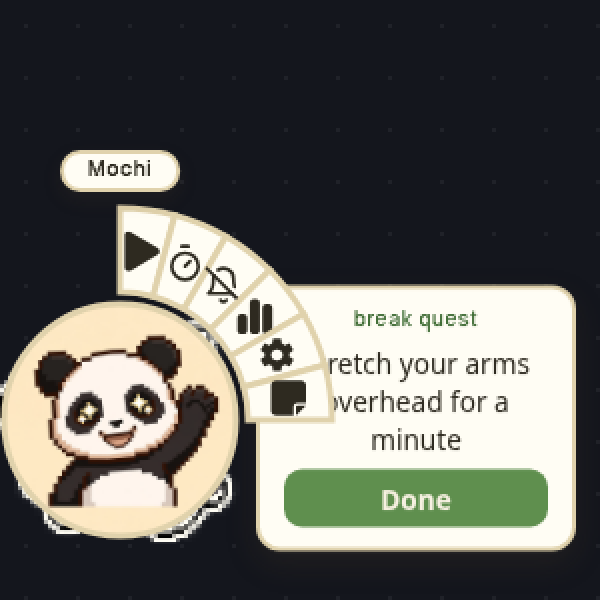
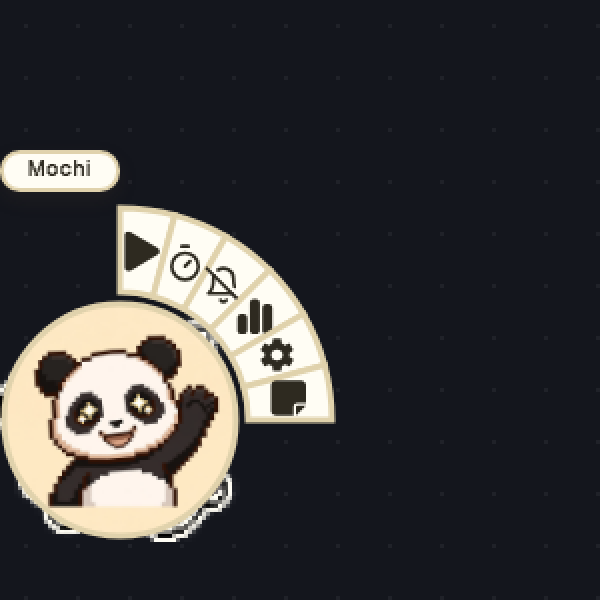
fix(audit): break/menu coexistence, quest click fidelity, copy pluralization
- startBreak closes the radial menu (auto-break while menu open overlapped)
- quest card hides while the radial menu is open (user-reopened menu
  overlapped the card); returns when the menu closes
- harness click() now also dispatches the DOM click the real runtime
  delivers alongside cursor://move (quest Done / pill stop previously
  untestable — they use onClick, not data-action)
- copy: '1 minute' pluralization in break message

Changed region(s): [[0.42, 0.45, 0.96, 0.93], [0.0, 0.24, 0.3, 0.33]]

diff --git a/src/App.tsx b/src/App.tsx
@@ -747,6 +747,9 @@ function App() {
   const startBreak = useCallback(
     (options?: { auto?: boolean; sleep?: boolean }) => {
       if (breakTimeRef.current !== 0) return;
+      // A break owns the space around the pet (quest card) — dismiss the
+      // radial menu so the two never overlap (e.g. auto-break while open).
+      closeBarRef.current();
       // A break and a focus session can't coexist — ending focus first keeps
       // the two side pills from colliding and the XP rules honest.
       if (focusSessionRef.current) cancelFocusSession();
@@ -1347,7 +1350,7 @@ function App() {
                   </button>
                 </div>
               )}
-              {onBreak && quest && !quest.done && !overlayHidden && (
+              {onBreak && quest && !quest.done && !overlayHidden && !barOpen && (
                 <div className="quest-pill interactive">
                   <span className="quest-label">break quest</span>
                   <span className="quest-text">{quest.text}</span>

diff --git a/docs/growth-pass/shots/capture.py b/docs/growth-pass/shots/capture.py
@@ -234,6 +234,14 @@ def click(page, x, y):
     fire(page, "cursor://move", {"x": x, "y": y, "inside": True, "pressed": True})
     page.wait_for_timeout(120)
     fire(page, "cursor://move", {"x": x, "y": y, "inside": True, "pressed": False})
+    # The real runtime also delivers an OS-level DOM click alongside
+    # cursor://move; plain buttons (quest Done, pill stop, panel buttons)
+    # rely on it. Radial slices only use data-action so this is a no-op there.
+    page.evaluate(
+        "([cx, cy]) => { const el = document.elementFromPoint(cx, cy);"
+        " if (el && typeof el.click === 'function') el.click(); }",
+        [x, y],
+    )
     page.wait_for_timeout(300)
 
 
